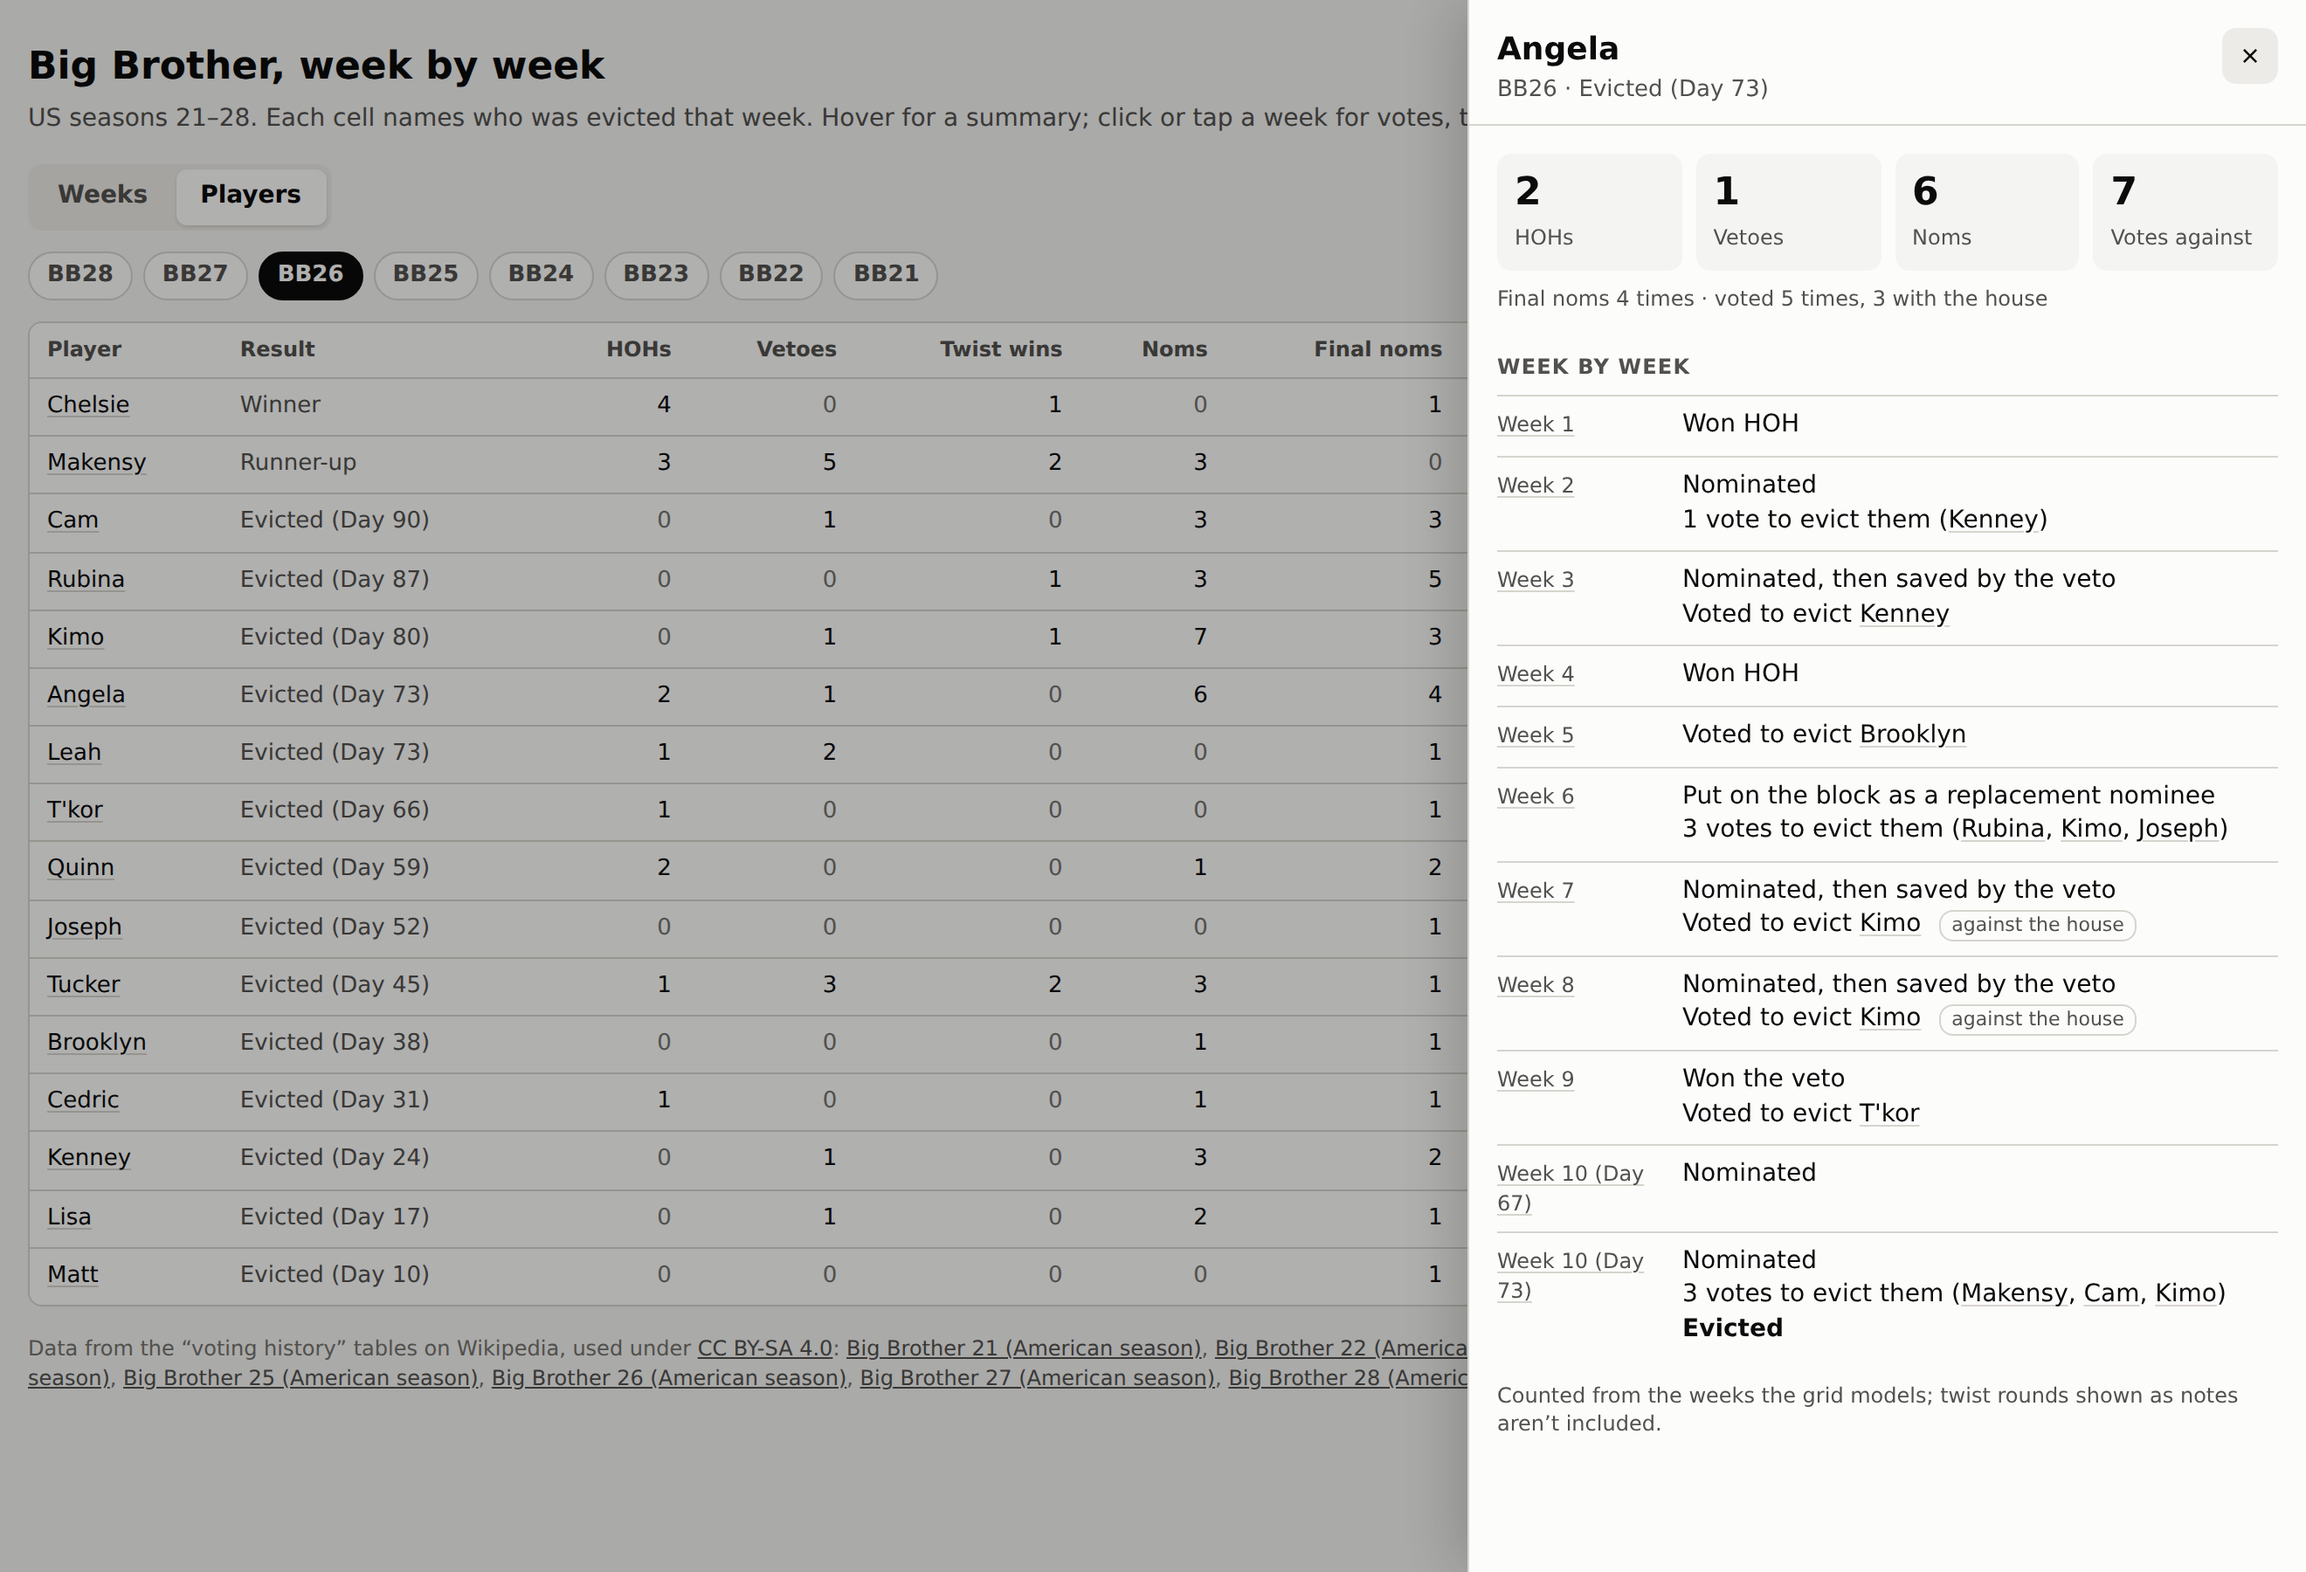
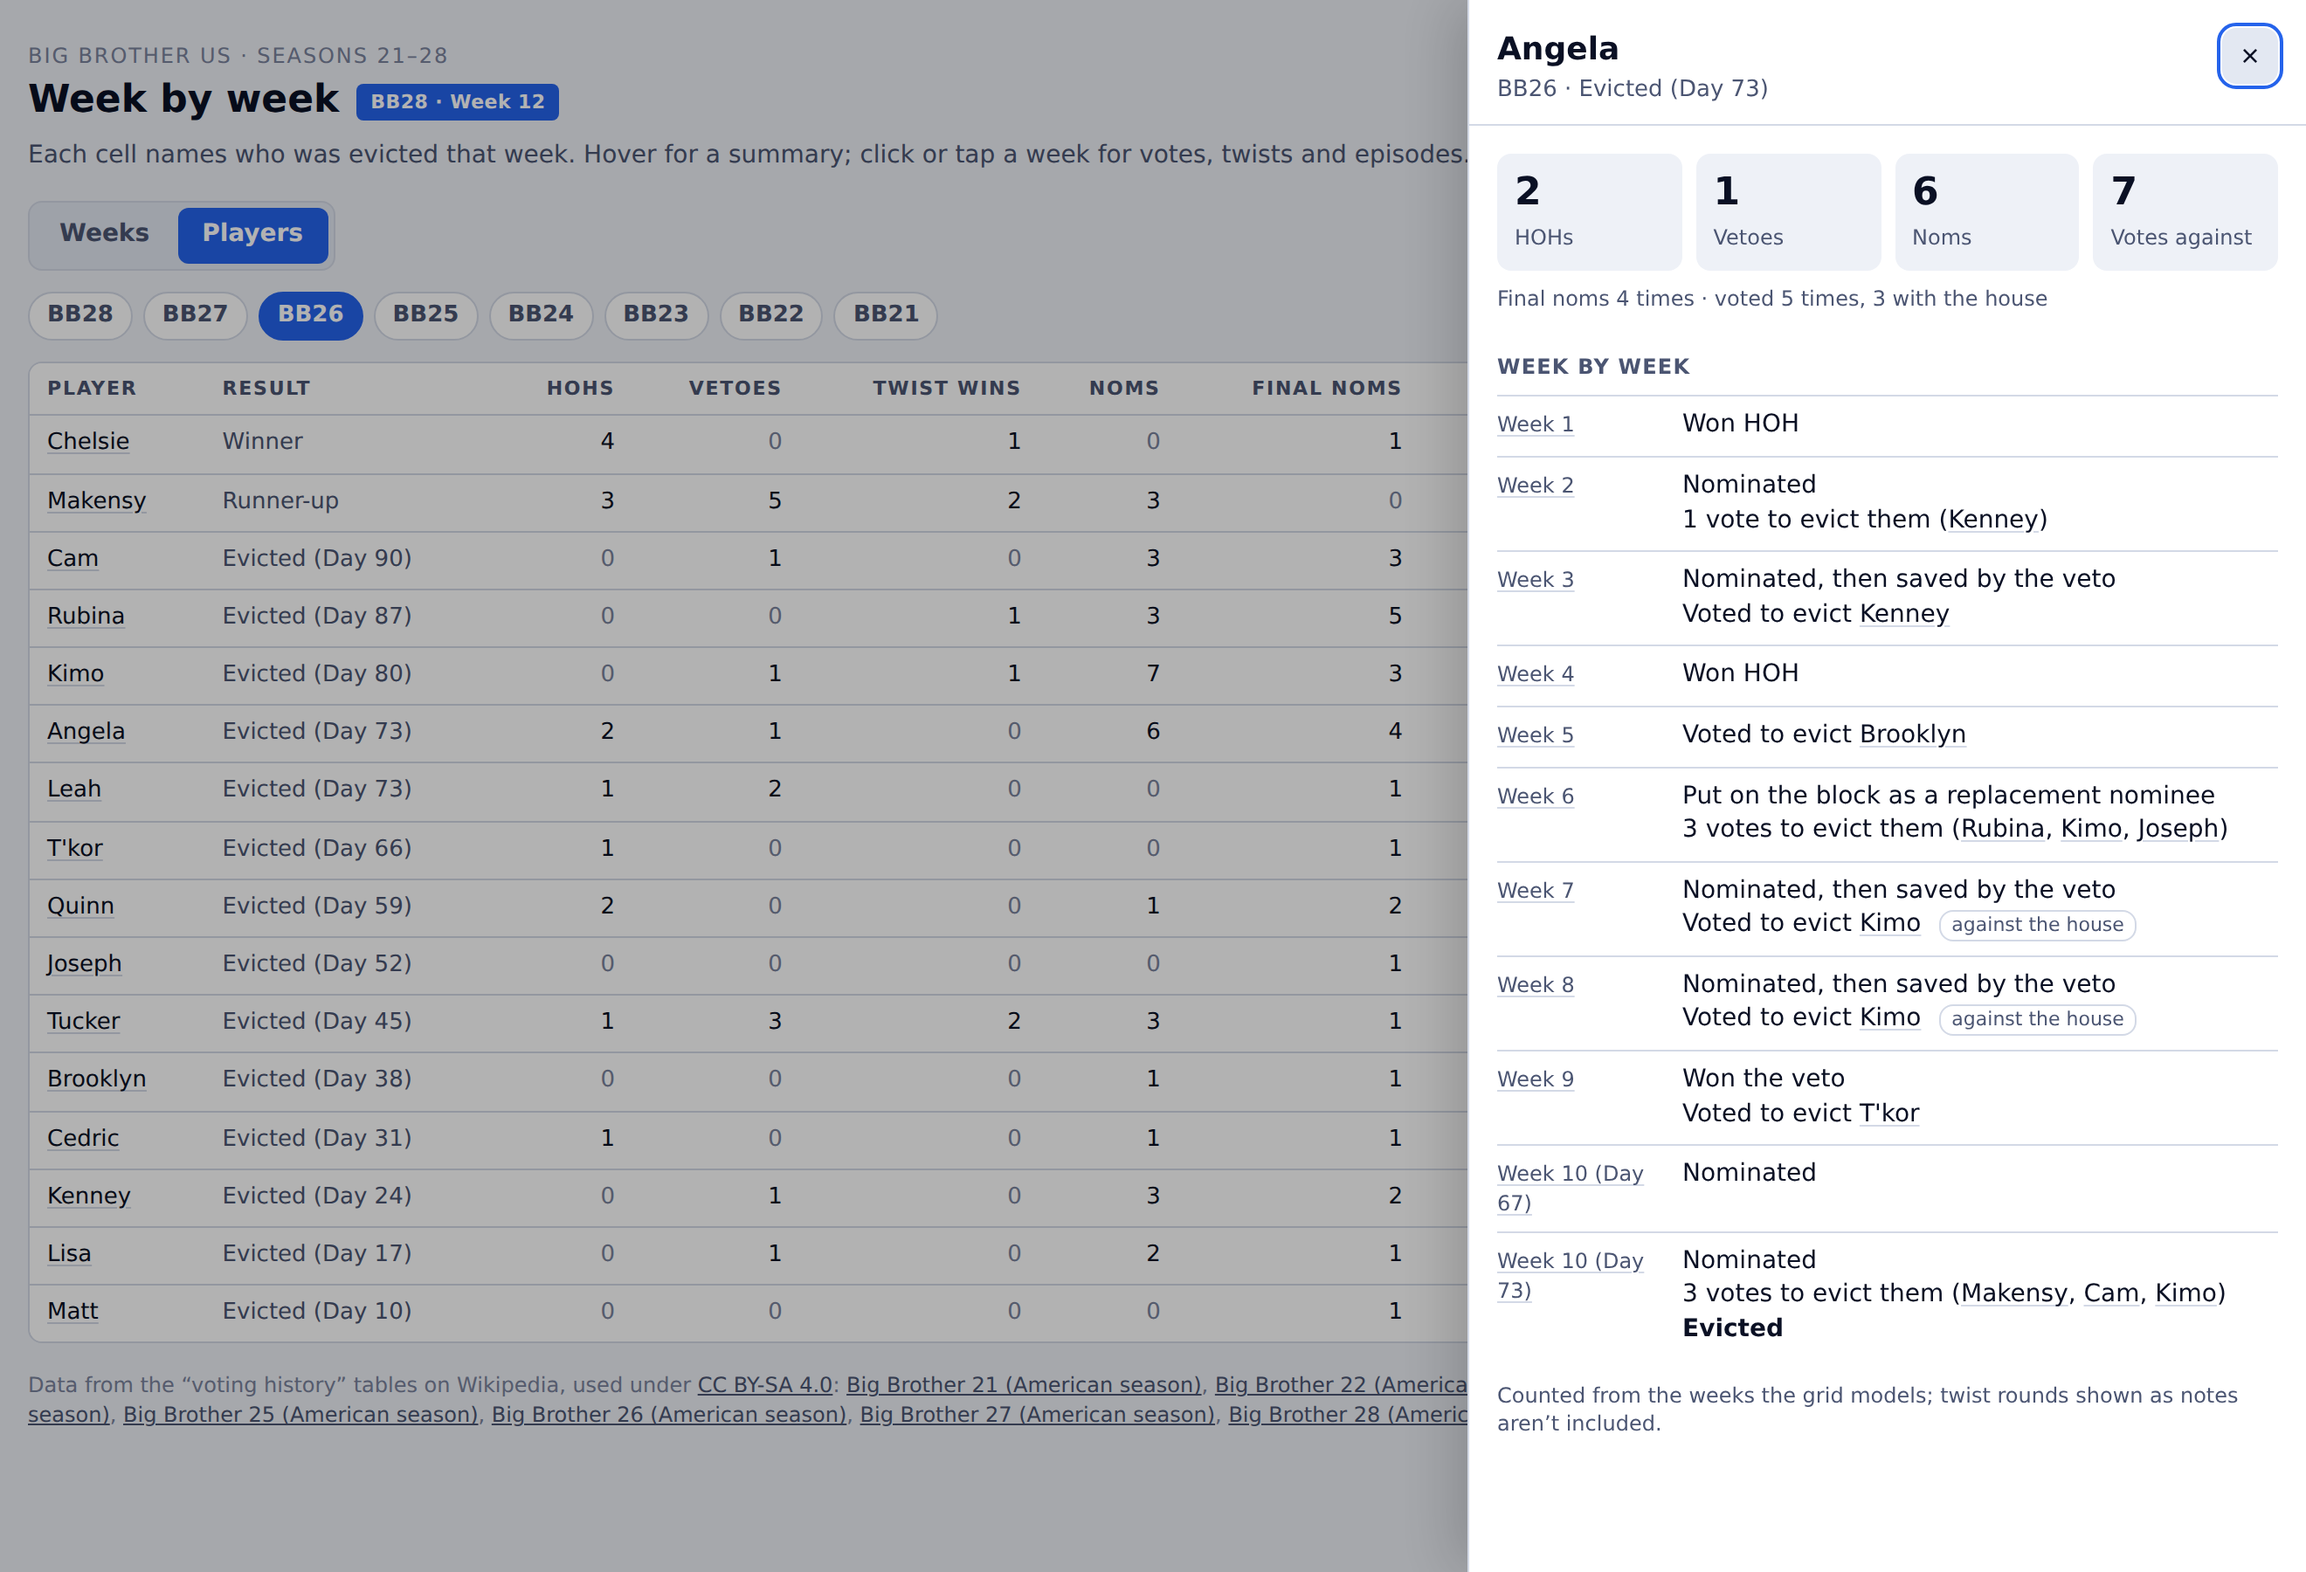
Retake screenshots in the new style
Same scenes, sizes and themes as before; the phone shots now use dark
mode. Narrows the minimum cell width so all 14 weeks fit at 1320px.

Claude-Session: https://claude.ai/code/session_01Y3u5Ga8kSxWnmm5KmojeBL

diff --git a/web/index.html b/web/index.html
@@ -96,7 +96,7 @@ table.grid { border-collapse: collapse; margin: 8px; width: calc(100% - 16px); }
 .grid thead th.now::after { border-top-width: 1px; }
 .grid tbody tr:last-child .now::after { border-bottom-width: 1px; }
 .cell {
-  display: grid; gap: 1px; width: 100%; min-width: 86px; min-height: 48px; padding: 0; border: 0;
+  display: grid; gap: 1px; width: 100%; min-width: 80px; min-height: 48px; padding: 0; border: 0;
   background: none; color: inherit; font: inherit; cursor: pointer; position: relative; text-align: center;
   -webkit-tap-highlight-color: transparent;
 }
